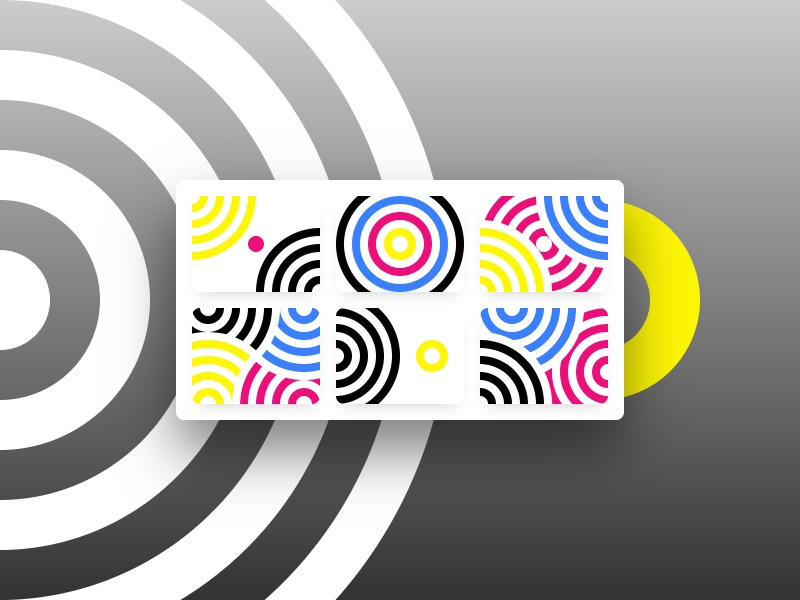
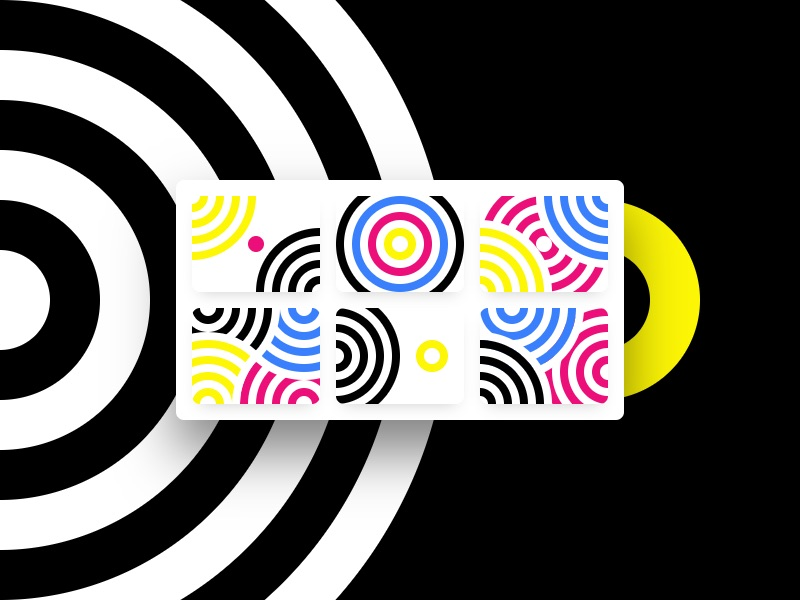
Improve project 031

diff --git a/src/projects/031/styles.css b/src/projects/031/styles.css
@@ -1,7 +1,5 @@
 .Project-031 {
-  background:
-    url(media/background.svg) no-repeat center / cover,
-    #000 linear-gradient(rgba(255, 255, 255, .8), rgba(255, 255, 255, .2));
+  background: #000 url(media/background.svg) no-repeat center / cover;
 }
 
 .Project-031-container {
